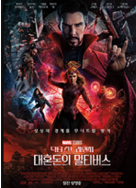
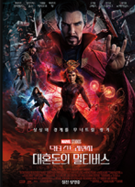
이미지의 흰 모서리 삭제

diff --git a/Form6.Designer.cs b/Form6.Designer.cs
@@ -138,7 +138,7 @@ namespace moogabox
 			this.label1.AutoSize = true;
 			this.label1.Font = new System.Drawing.Font("Century Gothic", 20F, System.Drawing.FontStyle.Bold);
 			this.label1.ForeColor = System.Drawing.Color.White;
-			this.label1.Location = new System.Drawing.Point(170, 415);
+			this.label1.Location = new System.Drawing.Point(170, 418);
 			this.label1.Name = "label1";
 			this.label1.Size = new System.Drawing.Size(59, 32);
 			this.label1.TabIndex = 8;

diff --git a/Form6.cs b/Form6.cs
@@ -81,7 +81,7 @@ namespace moogabox
 
 			Conn.Close();
 
-			if (this.txtMovie.Text == "") return "MvName";
+			if (this.txtMovie.Text == "") return "범죄도시2";
 			return this.txtMovie.Text;
 
 			
